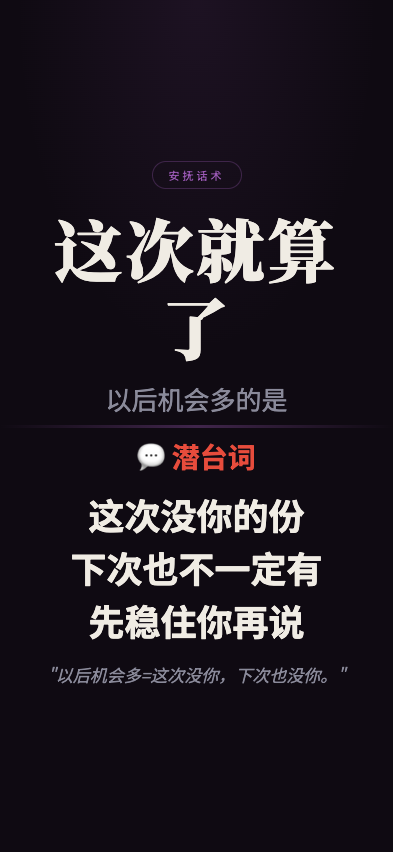
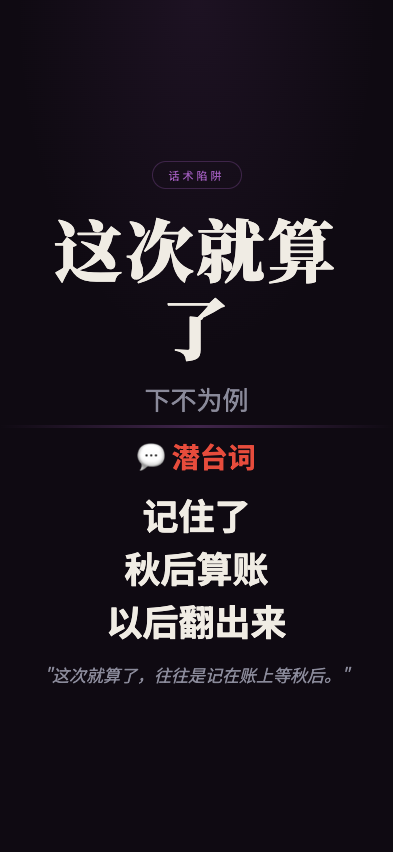
feat: 职场生存法则 screenshot - zhecijiusuanle

Changed region(s): [[0.1221, 0.5798, 0.8244, 0.8239], [0.2748, 0.4577, 0.7328, 0.4883], [0.4275, 0.1831, 0.5802, 0.2136]]

diff --git a/wuliao-tools/tools/biz-speak/scenes/zhecijiusuanle.html b/wuliao-tools/tools/biz-speak/scenes/zhecijiusuanle.html
@@ -41,19 +41,19 @@
 </head>
 <body>
   <div class="top">
-    <div class="tag">安抚话术</div>
+    <div class="tag">话术陷阱</div>
     <div class="main-title">这次就算了</div>
-    <div class="sub-title">以后机会多的是</div>
+    <div class="sub-title">下不为例</div>
   </div>
   <div class="divider"></div>
   <div class="bottom">
     <div class="truth-label">💬 潜台词</div>
     <div class="truth-lines">
-      <div class="truth-line">这次没你的份</div>
-      <div class="truth-line">下次也不一定有</div>
-      <div class="truth-line">先稳住你再说</div>
+      <div class="truth-line">记住了</div>
+      <div class="truth-line">秋后算账</div>
+      <div class="truth-line">以后翻出来</div>
     </div>
-    <div class="quote">"以后机会多=这次没你，下次也没你。"</div>
+    <div class="quote">"这次就算了，往往是记在账上等秋后。"</div>
   </div>
 </body>
 </html>
